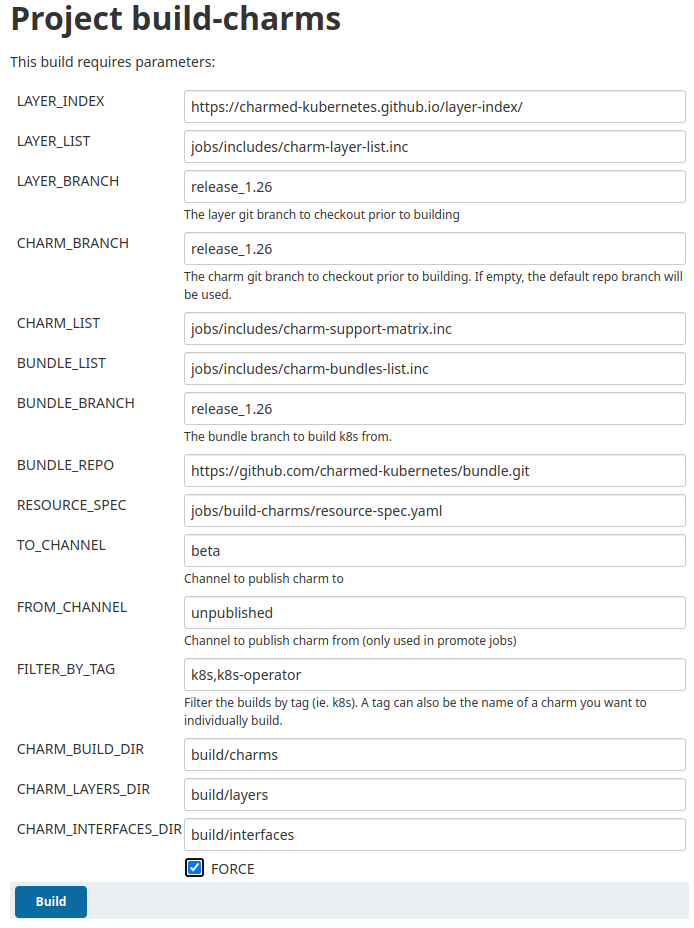
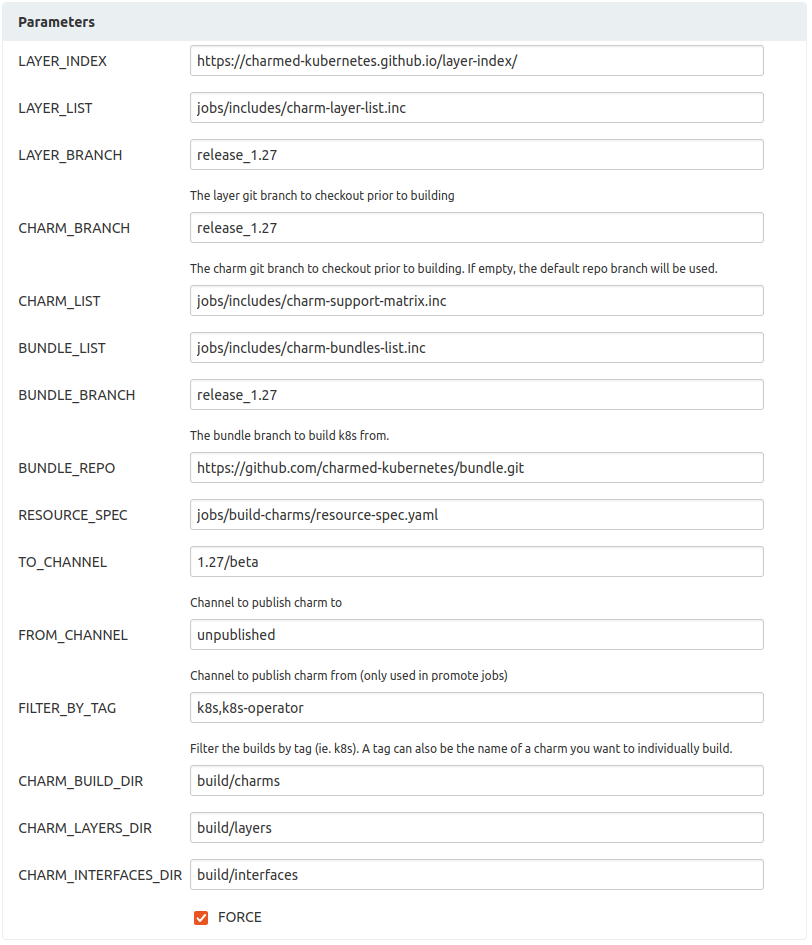
updated recipe based on the 1.27 stable release

Changed region(s): [[0.0, 0.0, 0.9986, 1.0], [0.0303, 0.4688, 0.1816, 0.6875], [0.0, 0.3125, 0.1816, 0.4375]]

diff --git a/docs/releases/stable/index.md b/docs/releases/stable/index.md
@@ -1,20 +1,20 @@
 # Creating a stable release
-Outlines the process for publishing a new Charmed Kubernetes release.
+This document outlines the process for publishing a Charmed Kubernetes stable release.
 
-## Stable Release Process
+## Background
 
 ### Repository layout
 
-All charm repositories used by Charmed Kuberentes use a common branch scheme to provide a
+All charm repositories used by Charmed Kuberentes have a common branch scheme to provide a
 consistent experience across all code bases. Any external or shared repositories are forked
 into the `charmed-kubernetes` github organization and have the following branches:
 
 * `main`: The primary development branch. Merges are made against this branch as they are
   approved.
-* `release_x.xx`: The release branch. Major releases have `main` directly merged to
-  `release_x.xx`. Bugfix releases have specific commits cherry-picked to `release_x.xx`.
+* `release_1.xx`: The release branch. Major releases have `main` directly merged to
+  `release_1.xx`. Bugfix releases have specific commits cherry-picked to `release_1.xx`.
 
-Tags are used to mark releases on the `release_x.xx` branch.
+Tags are used to mark releases on the `release_1.xx` branch.
 
 ### Feature Freeze
 
@@ -25,57 +25,50 @@ will take place for the first week of this freeze.
 The remaining tasks will still be completed at the time of feature freeze giving
 Solutions QA a solid base to test from.
 
-#### Conflict resolution
+### Conflict resolution
 
-At the time of the feature freeze, the release branches are git reset to match
-the default branches at that point, per the documentation below. During the
-feature freeze and Solutions QA period, fixes which need to be applied to
-address CI or QA failures, and only those specific fixes, are cherry-picked in
-to the respective release branches.
+At the time of the feature freeze, new `release_1.xx` branches are created to match
+our default repo branches per the documentation below. During the feature freeze and
+Solutions QA period, fixes which need to be applied to address CI or QA failures
+(and only those specific fixes) are cherry-picked to the respective release branches.
 
 ## Prepare CI
 
-### $next++ release
+### $stable++ release
 
 It may feel early, but part of releasing the next stable version requires
 preparing for the release that will follow. This requires opening tracks and
 building relevant snaps and charms that will be used in the new `edge` channel.
 
-For example, we requested 1.27 snap tracks while preparing for the 1.26 release:
+For example, we requested 1.28 snap tracks while preparing for the 1.27 release:
 
-- https://forum.snapcraft.io/t/kubernetes-1-27-snap-tracks/32937
+- https://forum.snapcraft.io/t/kubernetes-1-28-snap-tracks/34655
 
-Charm track requests are made by contacting
-[~snapstore](https://chat.canonical.com/canonical/channels/snapstore)
+Bundle/charm track requests are made by emailing
+`snap-store-admins@lists.canonical.com` (cc: k8s-crew)
 and asking for new tracks to be opened for every neccessary
-[charm](https://charmhub.io/charm) and [bundle](https://charmhub.io/bundle)
-owned by `Canonical Kubernetes` on [charmhub.io](https://charmhub.io). For example:
+[charm](https://github.com/charmed-kubernetes/jenkins/blob/main/jobs/includes/charm-support-matrix.inc)
+and
+[bundle](https://github.com/charmed-kubernetes/jenkins/blob/main/jobs/includes/charm-bundles-list.inc)
+owned by `Canonical Kubernetes`. For example:
 
-- https://chat.canonical.com/canonical/pl/fbmk7ochxfgdifyehomeds44qy
+- https://lists.canonical.com/mailman3/hyperkitty/list/k8s-crew@lists.canonical.com/thread/IX2VTCQRT3MLIJN2RNJZAJK2Z3KHCYXV/
 
-### $next release
-
-If not done already, add the upcoming release to the CI enumerations
-as well as our custom snap jobs. For example, see the additions made
-for the 1.26 release:
-
-- https://github.com/charmed-kubernetes/jenkins/pull/1141
-
-> **Note**: Nightly charm and bundle builds will target both
-`latest/edge` and `$next/edge` channels.
+### $stable release
 
 Once upstream has an RC for the upcoming release, our CI should stop
 building pre-prelease snaps. This ensures the 1.xx track will end up
-with 1.xx.0 instead of 1.xx.1-alpha.0. For example:
+with 1.xx.0 instead of 1.xx.1-alpha.0. For example, we merged the following
+between 1.27 RC and GA:
 
-- https://github.com/charmed-kubernetes/jenkins/pull/991
+- https://github.com/charmed-kubernetes/jenkins/pull/1264
 
 Additionally, if not done already, CI should include 1.xx in the version matrix
 and config for relevant jobs. For example, see these updates where we adjusted
-tests for our 1.26 release:
+tests for our 1.27 release:
 
-- https://github.com/charmed-kubernetes/jenkins/pull/1110
-- https://github.com/charmed-kubernetes/jenkins/pull/1107
+- https://github.com/charmed-kubernetes/jenkins/pull/1139
+- https://github.com/charmed-kubernetes/jenkins/pull/1270
 
 ## Preparing the release
 
@@ -87,44 +80,30 @@ We need to create `release_1.xx` branches from `main` for all
 Charmed Kubernetes repositories. This will be our snapshot
 from which we test, fix, and subsequently promote to the new release.
 
-### Pin snap channel on bundles/charms in the release branches
+> **BUG:2016189**: This job is tightly coupled to the order of our
+SNAP_K8S_TRACK_LIST. The last key in the list is used in the`release_1.xx`
+name.
 
-We need to make sure that the bundle fragments and kubernetes-worker/control-plane/e2e
+### Pin snap channel for charms in the release branches
+
+We need to make sure that the `kubernetes-<control-plane|e2e|worker>` charms
 have `1.xx/stable` set as the default snap channel. This should be done on each of
-the relevant git `release_1.xx` branches. For example, for the 1.26 GA:
+the relevant git `release_1.xx` branches. For example, for the 1.27 GA:
 
-- https://github.com/charmed-kubernetes/bundle/pull/867
-- https://github.com/charmed-kubernetes/charm-kubernetes-e2e/pull/26
-- https://github.com/charmed-kubernetes/charm-kubernetes-control-plane/pull/262
-- https://github.com/charmed-kubernetes/charm-kubernetes-worker/pull/133
+- https://github.com/charmed-kubernetes/charm-kubernetes-e2e/pull/28
+- https://github.com/charmed-kubernetes/charm-kubernetes-control-plane/pull/283
+- https://github.com/charmed-kubernetes/charm-kubernetes-worker/pull/141
 
 > **Note**: Changes to the above repos are required as some of our customers
 do not use our bundles for deployment.
-
-> **Note**: Dont miss our [badges](https://github.com/charmed-kubernetes/bundle/pull/868)
-from the bundle repo like we always do!
-
-### Bump snap channel to next minor release
-
-Once the rebase has occurred we should bump the same charms and bundle
-fragments in the `main` git branches to the next k8s minor version,
-e.g. `1.27/edge`. You don't have to do this right away; in fact, you
-should wait until you actually have snaps in the `$next++/edge` channels
-before making this change.
 
 ### Build new CK Charms from release git branches
 
 **Job**: https://jenkins.canonical.com/k8s/job/build-charms/
 
 This job clones the `release_1.xx` branch for each of our repos. It then builds
-each charm using those local repos. After the charms are built, they will
-be promoted to the `beta` channel in Charmhub based on the build options
-shown below.
-
-> **Note**: The `beta` channel is required as any bugfix release happening at
-the same time will use the `candidate` channel for staging.
-
-> **Note**: add `k8s-operator` to the `FILTER_BY_TAG` argument
+each charm/bundle using those local repos. After building, they will be
+published to the `1.xx/beta` channel in Charmhub based on the job options.
 
 #### Charm build options
 
@@ -137,7 +116,7 @@ the same time will use the `candidate` channel for staging.
 K8s snap promotion is handled by the `sync-snaps` job and will happen
 automatically after following the `Prepare CI` section above. If for some
 reason you need to manually build K8s snaps from a specific branch, use the
-above job with a `branch` parameter like `1.26.0`.
+above job with a `branch` parameter like `1.27.0`.
 
 The `branch` parameter gets translated to `v$branch` by
 [snap.py](https://github.com/charmed-kubernetes/jenkins/blob/0b334c52b2c4f816b03ff866c44301724b8b471c/cilib/service/snap.py#L172)
@@ -146,34 +125,45 @@ which must correspond to a valid tag in our
 
 > **Note**: Currently, the **CDK-ADDONS** snap needs to be manually built for
 > the appropriate channels:
-> - https://jenkins.canonical.com/k8s/job/build-release-cdk-addons-1.26/
+> - https://jenkins.canonical.com/k8s/job/build-release-cdk-addons-1.27/
 
 ### Run **validate-charm-release-upgrade** job
 
 **Job**: https://jenkins.canonical.com/k8s/job/validate-charm-release-upgrade/
 
-This validates the deployment using the charms from latest/stable channel, 
-then performing an upgrade to latest/beta channel. The tests are parameterized
-to run on multiple series and with multiple snap channels.
+This validates the deployment using charms from the `latest/stable` channel,
+then performing an upgrade to `latest/beta`. The tests are parameterized to
+run on multiple series and with multiple snap channels.
 
-Before running this job, confirm that the defined variables in the job are
-* `upgrade_snap` - this CK release's beta snap (1.26/beta)
-* `deploy_snap` - the previous 2 CK releases' stable snaps (1.25/stable, 1.24/stable)
+Before running this job, confirm that the defined variables in the job are:
+
+* `snap_version` - this release beta snap (e.g. 1.27/beta)
+* `deploy_snap` - n-1 and n-2 stable snaps (e.g. 1.26/stable, 1.25/stable)
 
 ### Notify Solutions QA
 
 At the end of the first week and assuming all major blockers are resolved, the
-release is passed over to Solutions QA (SolQA) for a final sign-off. This is done
-by tagging the current Jenkins commit with the release version and informing SolQA
-of that tag. SolQA will then have the remaining week to test and file bugs as they
-happen so engineering can work towards getting them resolved prior to GA.
+release is passed over to Solutions QA (SQA) for sign-off. This is done by
+[publishing a CI release](https://github.com/charmed-kubernetes/jenkins/releases/new)
+with a new `1.xx` tag and informing SQA of that tag. They will then have the
+remaining week to test and file bugs so engineering can work towards getting
+them resolved prior to GA.
 
 Please note the [Conflict Resolution Section](#conflict-resolution) for making
-any changes as a result of SolQA testing.
+any changes as a result of SQA testing.
 
 ### CNCF Conformance
 
 **Job**: https://jenkins.canonical.com/k8s/job/conformance-cncf-ck/
+
+Confirm passing results, then create a PR against the upstream `k8s-conformance`
+repo. For example, we used the following branch for CK 1.26:
+
+- https://github.com/charmed-kubernetes/k8s-conformance/tree/1.26-ck
+
+And opened this upstream PR:
+
+- https://github.com/cncf/k8s-conformance/pull/2473
 
 ### Document release notes
 
@@ -183,24 +173,54 @@ any changes as a result of SolQA testing.
 
 ## Performing the release
 
-### Promote charms from **beta** to **stable**
+### Promote charms from `1.xx/beta` to appropriate channels
 
 **Job**: https://jenkins.canonical.com/k8s/job/promote-charms/
 
-This job takes a tag, from_channel, and to_channel. The tag defaults to `k8s` so
-it would only promote the machine charms that make up charmed-kubernetes.
-Ensure that `k8s-operator` is added to the `tags` to include kubernetes
-operator charms.
+This job takes a tag list, `from_channel`, and `to_channel`. A tag value of
+`k8s` would only promote the charms that make up core `charmed-kubernetes`.
+Ensure that `k8s-operator` is added to the tag list to include kubernetes
+operator charms. You typically run this job multiple times to get charms into
+all of the appropriate channels, for example:
+
+- `1.27/beta` -> `1.27/stable`
+- `1.27/beta` -> `latest/beta`
+- `1.27/beta` -> `latest/stable`
 
 #### Promote charm Options
 
 ![promote charm options](promote-charms.png)
 
+### Promote snaps from `1.xx/<risk>` to `latest/<risk>`
+
+**Job**: https://jenkins.canonical.com/k8s/job/sync-snaps/
+
+This job will automatically promote snaps to `latest`. The only prereqs are
+that charms have been promoted and that the `K8S_STABLE_VERSION` enum is set
+to this release `1.xx`. For example, for the 1.27 GA:
+
+- https://github.com/charmed-kubernetes/jenkins/pull/1271
+
+> **Note**: Nightly charm and bundle builds will publish to both `latest/edge`
+and `K8S_STABLE_VERSION/edge` channels.
+
+### Pin snap channel for bundles in the release branches
+
+We need to make sure that the bundle fragments have `1.xx/stable` set as the
+default snap channel on the `release_1.xx` branch. For example, for the 1.27 GA:
+
+- https://github.com/charmed-kubernetes/bundle/pull/879
+
+> **Note**: Dont miss our [badges](https://github.com/charmed-kubernetes/bundle/pull/868)
+like we've done so many times before!
+
 ### Build bundles to **stable**
 
-Bundles cannot be promoted because they reference specific charm channels at
-build time. Therefore, it's required to build bundles which reference the
-stable charm channels.
+**Job**: https://jenkins.canonical.com/k8s/job/build-charms/
+
+Bundles cannot be promoted because they reference specific channels at build
+time. Therefore, it's required to build bundles which reference the stable
+charm channels.
 
 > **Note**: The `bundle` filter shown below ensures only bundles are built
 when this job runs.
@@ -223,18 +243,43 @@ not the `latest/stable` version number.
 
 ![sync stable tag bundle rev options](sync-stable-tag-bundle-rev-options.png)
 
-### Promote snaps from `1.xx/stable` to `latest/<risks>`
-
-**Job**: https://jenkins.canonical.com/k8s/job/sync-snaps/
-
-This job will automatically promote snaps to `latest`. The only
-prereqs are that charms and bundles have been promoted, and that
-the `K8S_STABLE` enum is set to this release `1.xx`. For example,
-for the 1.24 GA:
-
-- https://github.com/charmed-kubernetes/jenkins/pull/902/files
-
 ### Send announcement
 
 Email announcement to k8s-crew with any relevant information.
 
+## Post Release
+
+When $stable++ tracks are open, add them to our CI enumerations as well as our
+custom snap jobs. For example, see the additions made during our 1.27 GA to
+support the future 1.28 release:
+
+- https://github.com/charmed-kubernetes/jenkins/pull/1271
+
+### Set cdk-addons envars
+
+Update cdk-addons `release-1.xx` Makefile:
+
+- https://github.com/charmed-kubernetes/cdk-addons/commit/55d42859ede457345f899b7e88ea9db904028bf3
+
+Update cdk-addons `main` Makefile
+- https://github.com/charmed-kubernetes/cdk-addons/commit/ee169e9d742f31e525c6209df8460194c2aea38d
+
+### Bump snap channel to the $stable++ release
+
+Bump the `kubernetes-<control-plane|e2e|worker>` charms and bundle
+fragments in the `main` git branches to the future $stable++ release,
+e.g. `1.28/edge`. You don't have to do this right away; in fact, you
+should wait until you actually have snaps in the `$stable++/edge` channels
+before making this change.
+
+### Adjust LP milestones
+
+Run the `[close|open]-milestone.py` scripts found in the
+[cdk-scripts repo](https://github.com/canonical/cdk-scripts) repository.
+For example:
+```
+./close-milestone.py 1.27
+./open-milestone.py 1.27+ck1
+```
+
+# Fin

diff --git a/docs/releases/bugfix/index.md b/docs/releases/bugfix/index.md
@@ -1,7 +1,7 @@
 # Creating a bugfix release
-Outlines the process for publishing a Charmed Kubernetes bugfix release.
+This document outlines the process for publishing a Charmed Kubernetes bugfix release.
 
-## Bugfix Release Process
+## Background
 
 ### Repository layout
 
@@ -201,6 +201,11 @@ tracks. For example, if doing a 1.25+ckX release, then you would promote:
 This could be done using the following one-liner:
 ```
 for track in 1.23 1.24 1.25; do for rev in `snapcraft revisions cdk-addons | grep "$track/candidate\*" | cut -d ' ' -f 1`; do snapcraft release cdk-addons "$rev" "$track/stable"; done; done
+```
+
+Also promote the n/candidate revision to latest/stable, for example:
+```
+for rev in `snapcraft revisions cdk-addons | grep "1.25/candidate\*" | cut -d ' ' -f 1`; do snapcraft release cdk-addons "$rev" "latest/stable"; done;
 ```
 
 ### Close the milestone
